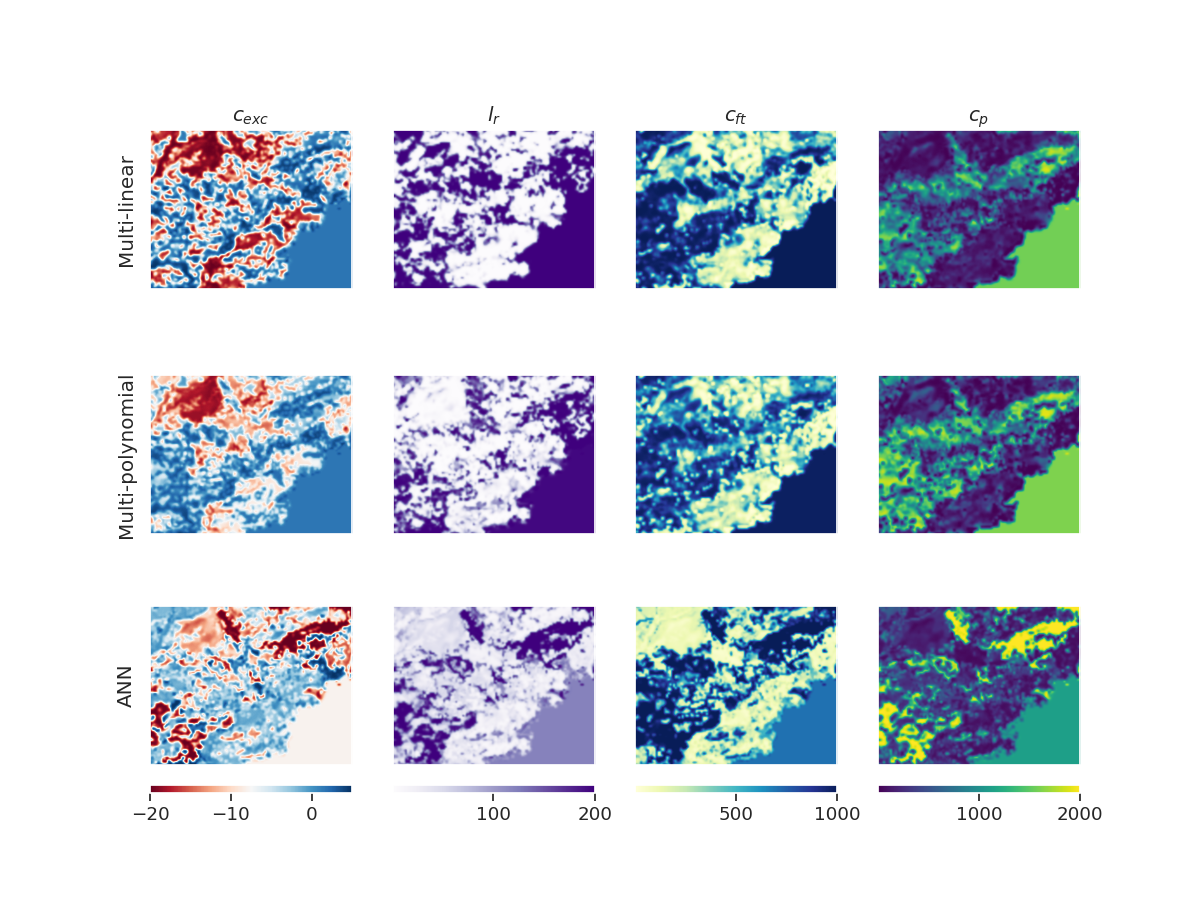
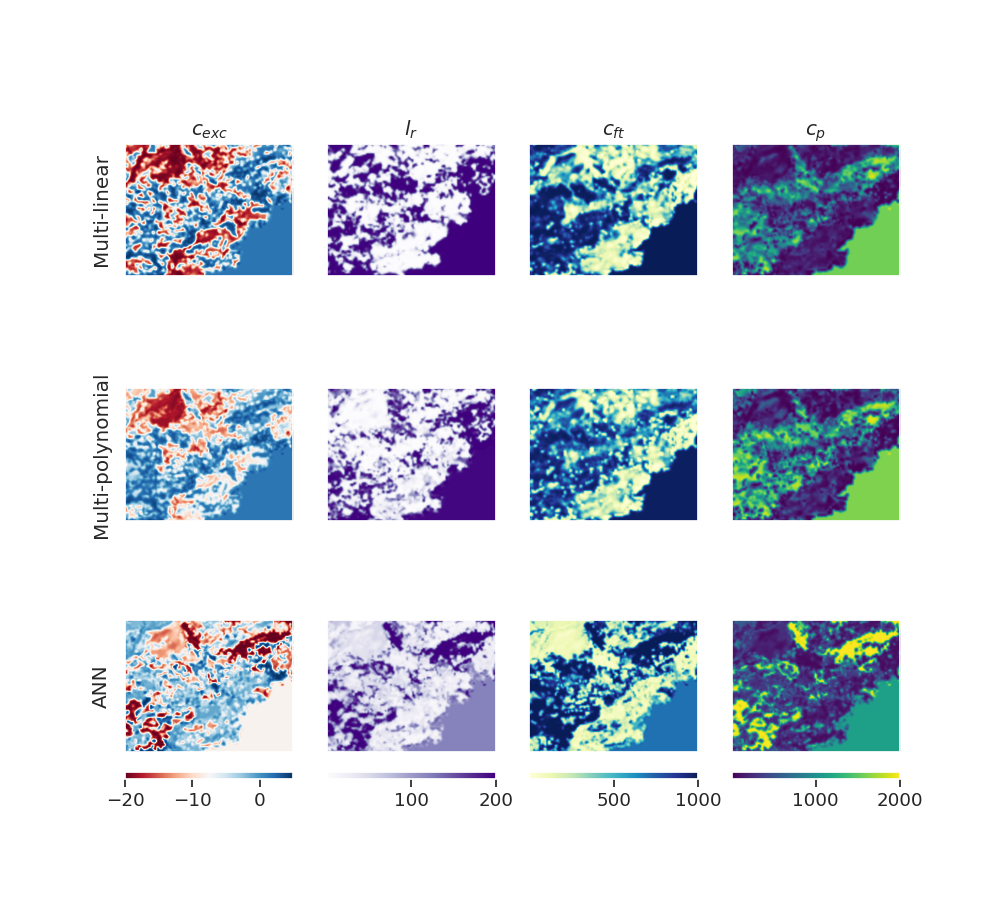
FIX: fix figure size for parameter map

diff --git a/run_result-analysis.py b/run_result-analysis.py
@@ -431,7 +431,7 @@ def param_map(
     cmaps=["RdBu", "Purples", "YlGnBu", "viridis"],
     bounds=[(-20, 5), (1, 200), (1, 1000), (2, 2000)],
     figname="param_map",
-    figsize=(12, 9),
+    figsize=(10, 9),
 ):
     print("</> Plotting parameters map...")
 
